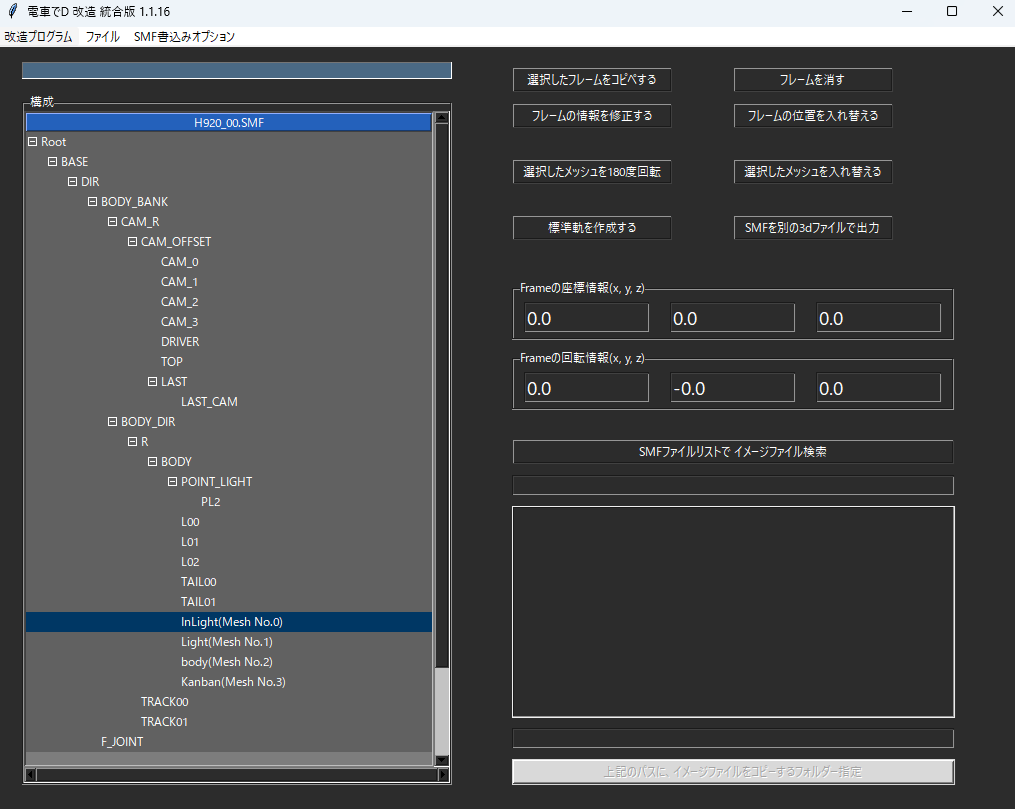
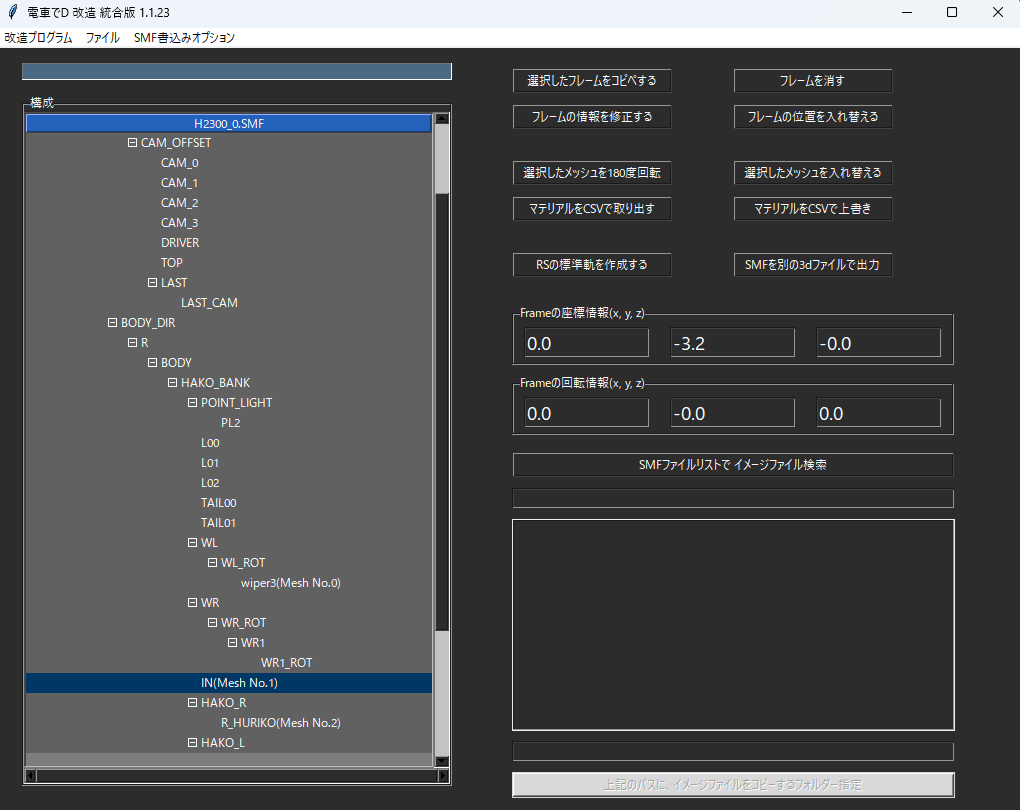
SMFファイルにマテリアルのTEXC、DIFF、EMISを修正する機能を追加

diff --git a/program/smf/smf.py b/program/smf/smf.py
@@ -34,6 +34,8 @@ extract3dObjButton = None
 turnModelMeshButton = None
 swapModelMeshButton = None
 editInfoFrameButton = None
+meshMaterialCsvSaveButton = None
+meshMaterialCsvLoadButton = None
 
 v_framePosX = None
 v_framePosY = None
@@ -119,6 +121,8 @@ def createWidget():
     global turnModelMeshButton
     global swapModelMeshButton
     global editInfoFrameButton
+    global meshMaterialCsvSaveButton
+    global meshMaterialCsvLoadButton
     global decryptFile
 
     btnList = [
@@ -129,7 +133,9 @@ def createWidget():
     ]
     meshBtnList = [
         turnModelMeshButton,
-        swapModelMeshButton
+        swapModelMeshButton,
+        meshMaterialCsvSaveButton,
+        meshMaterialCsvLoadButton
     ]
 
     frame = ScrollbarTreeviewSmf(scriptLf, btnList, meshBtnList, getFrameInfo)
@@ -151,6 +157,8 @@ def createWidget():
     extract3dObjButton["state"] = "normal"
     turnModelMeshButton["state"] = "disabled"
     swapModelMeshButton["state"] = "disabled"
+    meshMaterialCsvSaveButton["state"] = "disabled"
+    meshMaterialCsvLoadButton["state"] = "disabled"
 
 
 def reloadWidget():
@@ -377,6 +385,130 @@ def swapModelMesh():
                 reloadWidget()
 
 
+def meshMaterialCsvSave():
+    global decryptFile
+    global frame
+
+    saveName = os.path.splitext(os.path.basename(decryptFile.filename))[0]
+    selectId = frame.tree.selection()[0]
+    selectName = frame.tree.item(selectId)["text"]
+    meshNo = int(re.findall("Mesh No.(\d+)", selectName)[0])
+    saveName += "_mesh{0}".format(meshNo)
+    file_path = fd.asksaveasfilename(
+        initialfile=saveName,
+        filetypes=[
+            (textSetting.textList["smf"]["csvFile"], "*.csv")
+        ],
+        defaultextension=".csv")
+
+    if file_path:
+        errorMsg = textSetting.textList["errorList"]["E19"]
+        try:
+            mtrlList = decryptFile.meshList[meshNo]["mtrlList"]
+            f = open(file_path, "w", encoding="utf-8-sig")
+            f.write("mtrlNo,texc,diff_r,diff_g,diff_b,diff_a,emis_r,emis_g,emis_b\n")
+            for mIdx, mtrlInfo in enumerate(mtrlList):
+                rowList = []
+                rowList.append(mIdx)
+                if "texc" in mtrlInfo:
+                    rowList.append(mtrlInfo["texc"])
+                else:
+                    rowList.append("")
+                rowList.extend(mtrlInfo["diff"])
+                rowList.extend(mtrlInfo["emis"])
+                f.write(",".join(map(str, rowList)))
+                f.write("\n")
+            f.close()
+            mb.showinfo(title=textSetting.textList["success"], message=textSetting.textList["infoList"]["I10"])
+        except Exception:
+            errObj.write(traceback.format_exc())
+            mb.showerror(title=textSetting.textList["error"], message=errorMsg)
+
+
+def meshMaterialCsvLoad():
+    global root
+    global decryptFile
+    global frame
+
+    selectId = frame.tree.selection()[0]
+    selectName = frame.tree.item(selectId)["text"]
+    meshNo = int(re.findall("Mesh No.(\d+)", selectName)[0])
+    file_path = fd.askopenfilename(
+        filetypes=[
+            (textSetting.textList["smf"]["csvFile"], "*.csv")
+        ],
+        defaultextension=".csv"
+    )
+    if file_path:
+        errorMsg = textSetting.textList["errorList"]["E14"]
+        noTexcInputFlag = False
+        try:
+            f = open(file_path, "r", encoding="utf-8-sig")
+            lines = f.readlines()
+            f.close()
+
+            lines.pop(0)
+            originMtrlList = decryptFile.meshList[meshNo]["mtrlList"]
+            if len(originMtrlList) != len(lines):
+                errorMsg2 = textSetting.textList["errorList"]["E125"].format(len(lines), len(originMtrlList))
+                mb.showerror(title=textSetting.textList["error"], message=errorMsg2)
+                return
+
+            mtrlList = []
+            for idx, line in enumerate(lines):
+                originMtrlInfo = originMtrlList[idx]
+                mtrlInfo = {}
+                arr = line.strip().split(",")
+                if arr[1] != "":
+                    mtrlInfo["texc"] = arr[1]
+                    bTexc = decryptFile.encObj.convertByteArray(mtrlInfo["texc"])
+                    if len(bTexc) > 64:
+                        errorMsg = textSetting.textList["errorList"]["E127"].format(idx)
+                        mb.showerror(title=textSetting.textList["error"], message=errorMsg)
+                        return
+                if "texc" in originMtrlInfo and "texc" not in mtrlInfo:
+                    errorMsg = textSetting.textList["errorList"]["E126"].format(idx)
+                    mb.showerror(title=textSetting.textList["error"], message=errorMsg)
+                    return
+                if "texc" not in originMtrlInfo and "texc" in mtrlInfo:
+                    noTexcInputFlag = True
+
+                diff = [0.0, 0.0, 0.0, 0.0]
+                if arr[2] != "":
+                    diff[0] = float(arr[2])
+                if arr[3] != "":
+                    diff[1] = float(arr[3])
+                if arr[4] != "":
+                    diff[2] = float(arr[4])
+                if arr[5] != "":
+                    diff[3] = float(arr[5])
+                mtrlInfo["diff"] = diff
+
+                emis = [0.0, 0.0, 0.0]
+                if arr[6] != "":
+                    emis[0] = float(arr[6])
+                if arr[7] != "":
+                    emis[1] = float(arr[7])
+                if arr[8] != "":
+                    emis[2] = float(arr[8])
+                mtrlInfo["emis"] = emis
+                mtrlList.append(mtrlInfo)
+
+            warnMsg = textSetting.textList["infoList"]["I136"]
+            if noTexcInputFlag:
+                warnMsg = textSetting.textList["infoList"]["I138"] + warnMsg
+            result = mb.askokcancel(title=textSetting.textList["confirm"], message=warnMsg, icon="warning", parent=root)
+            if result:
+                if not decryptFile.modifyMaterial(meshNo, mtrlList):
+                    decryptFile.printError()
+                    mb.showerror(title=textSetting.textList["saveError"], message=errorMsg)
+                    return
+                mb.showinfo(title=textSetting.textList["success"], message=textSetting.textList["infoList"]["I137"])
+                reloadWidget()
+        except Exception:
+            errObj.write(traceback.format_exc())
+            mb.showerror(title=textSetting.textList["error"], message=errorMsg)
+
 def getFrameInfo():
     global v_framePosX
     global v_framePosY
@@ -488,6 +620,8 @@ def call_smf(rootTk, config_ini_path, appearance):
     global turnModelMeshButton
     global swapModelMeshButton
     global editInfoFrameButton
+    global meshMaterialCsvSaveButton
+    global meshMaterialCsvLoadButton
 
     global v_framePosX
     global v_framePosY
@@ -546,6 +680,10 @@ def call_smf(rootTk, config_ini_path, appearance):
     turnModelMeshButton.grid(row=0, column=0, padx=30, pady=5)
     swapModelMeshButton = ttkCustomWidget.CustomTtkButton(meshEditButtonFrame, text=textSetting.textList["smf"]["swapModelMeshLabel"], width=25, command=swapModelMesh, state="disabled")
     swapModelMeshButton.grid(row=0, column=1, padx=30, pady=5)
+    meshMaterialCsvSaveButton = ttkCustomWidget.CustomTtkButton(meshEditButtonFrame, text=textSetting.textList["smf"]["meshMaterialCsvSaveLabel"], width=25, command=meshMaterialCsvSave, state="disabled")
+    meshMaterialCsvSaveButton.grid(row=1, column=0, padx=30, pady=5)
+    meshMaterialCsvLoadButton = ttkCustomWidget.CustomTtkButton(meshEditButtonFrame, text=textSetting.textList["smf"]["meshMaterialCsvLoadLabel"], width=25, command=meshMaterialCsvLoad, state="disabled")
+    meshMaterialCsvLoadButton.grid(row=1, column=1, padx=30, pady=5)
 
     elseEditButtonFrame = ttkCustomWidget.CustomTtkFrame(buttonListFrame)
     elseEditButtonFrame.grid(row=2, column=0, pady=10)

diff --git a/program/smf/importPy/decrypt.py b/program/smf/importPy/decrypt.py
@@ -2476,3 +2476,70 @@ class SmfDecrypt:
         w.write(newByteArr)
         w.close()
         return True
+
+    def modifyMaterial(self, meshNo, mtrlList):
+        self.index = self.meshStartIdx
+        meshStartIdx = -1
+        meshEndIdx = -1
+        for mesh in range(self.meshCount):
+            if mesh == meshNo:
+                meshStartIdx = self.index
+            nameAndLength = self.getStructNameAndLength()
+            if not self.readMESH(mesh, nameAndLength[1], int(50 / self.meshCount)):
+                return False
+            if mesh == meshNo:
+                meshEndIdx = self.index
+                break
+        if meshStartIdx == -1 or meshEndIdx == -1:
+            return False
+        searchIdx = self.byteArr.find(self.encObj.convertByteArray("LRTM"), meshStartIdx)
+        if searchIdx == -1:
+            return False
+        newByteArr = bytearray(self.byteArr)
+        index = searchIdx
+        for mtrl in mtrlList:
+            index += 4
+            mtrlLen = struct.unpack("<i", self.byteArr[index:index + 4])[0]
+            index += 4
+            mtrlStartIndex = index
+            # TEXC
+            searchIdx = self.byteArr.find(self.encObj.convertByteArray("CXET"), index)
+            if searchIdx != -1 and "texc" in mtrl:
+                index = searchIdx
+                index += 4
+                index += 4
+                bTexc = self.encObj.convertByteArray(mtrl["texc"])
+                for addr, val in enumerate(bTexc):
+                    newByteArr[index + addr] = val
+                index += len(bTexc)
+                for i in range(64 - len(bTexc)):
+                    newByteArr[index + i] = 0
+                index += (64 - len(bTexc))
+            # DIFF
+            searchIdx = self.byteArr.find(self.encObj.convertByteArray("FFID"), index)
+            if searchIdx != -1 and "diff" in mtrl:
+                index = searchIdx
+                index += 4
+                index += 4
+                for diff in mtrl["diff"]:
+                    bDiff = struct.pack("<f", diff)
+                    for addr, val in enumerate(bDiff):
+                        newByteArr[index + addr] = val
+                    index += 4
+            # EMIS
+            searchIdx = self.byteArr.find(self.encObj.convertByteArray("SIME"), index)
+            if searchIdx != -1 and "emis" in mtrl:
+                index = searchIdx
+                index += 4
+                index += 4
+                for emis in mtrl["emis"]:
+                    bEmis = struct.pack("<f", emis)
+                    for addr, val in enumerate(bEmis):
+                        newByteArr[index + addr] = val
+                    index += 4
+            index = mtrlStartIndex + mtrlLen
+
+        w = open(self.filePath, "wb")
+        w.write(newByteArr)
+        w.close()
+        return True

diff --git a/program/textSetting.py b/program/textSetting.py
@@ -811,6 +811,7 @@ textList = {
         "glbFile": "glbファイル",
         "fbxFile": "fbxファイル",
         "xFile": "xファイル",
+        "csvFile": "csvファイル",
         "swapFrame": "フレーム入れ替え",
         "editInfoFrame": "フレーム情報修正",
         "swapMesh": "メッシュ入れ替え",
@@ -823,6 +824,8 @@ textList = {
         "extract3dLabel": "SMFを別の3dファイルで出力",
         "turnModelMeshLabel": "選択したメッシュを180度回転",
         "swapModelMeshLabel": "選択したメッシュを入れ替える",
+        "meshMaterialCsvSaveLabel": "マテリアルをCSVで取り出す",
+        "meshMaterialCsvLoadLabel": "マテリアルをCSVで上書き",
         "scanSmfImageLabel": "SMFファイルリストで イメージファイル検索",
         "copyImageLabel": "上記のパスに、イメージファイルをコピーするフォルダー指定",
         "framePosInfoLabel": "Frameの座標情報(x, y, z)",
@@ -998,7 +1001,10 @@ textList = {
         "I132": "指定したメッシュ番号({0})は、存在しています\n不具合が発生する恐れがありますが\n",
         "I133": "フレームに指定したメッシュ番号({0})を消すと\nメッシュ情報も削除されます\n",
         "I134": "空のメッシュ番号({0})を作成します。\n",
-        "I135": "このまま修正すると、メッシュ番号({0})を参照できない\n不具合が発生する恐れがありますが\n"
+        "I135": "このまま修正すると、メッシュ番号({0})を参照できない\n不具合が発生する恐れがありますが\n",
+        "I136": "マテリアルを上書きしますか？",
+        "I137": "マテリアルを上書きしました",
+        "I138": "TEXC要素がないテクスチャーは無視されます。\n"
     },
     "modify": "修正",
     "insert": "挿入",
@@ -1136,7 +1142,10 @@ textList = {
         "E121": "レールのNo.{0}で【{1}】は、レールとして使えないモデルです",
         "E122": "レールのNo.{0}で【{1}】は{2}ですが、{3}で指定しています",
         "E123": "選択したメッシュの面は三角面ではありません",
-        "E124": "ファイル読込エラー\nshift-jis形式ではない可能性があります"
+        "E124": "ファイル読込エラー\nshift-jis形式ではない可能性があります",
+        "E125": "読み込んだマテリアル数({0})が元の数({1})と一致しません",
+        "E126": "マテリアルNo.{0}のテクスチャ名がありません",
+        "E127": "マテリアルNo.{0}のテクスチャ名が長すぎです"
     },
     "excel": {
         "errorColor": "FF0000",

diff --git a/program/smf/README.md b/program/smf/README.md
@@ -53,6 +53,18 @@ SMFファイルを読込ませると、SMFのメッシュの中で１つを
 
 FBXファイルを読込ませると、認識したメッシュの中で１つを入れ替えることができる。
 
+### マテリアルをCSVで取り出す
+
+メッシュのマテリアル情報をCSVで取り出すことが出来る。
+
+取り出す情報は、TEXC、DIFF、EMISのみ
+
+### マテリアルをCSVで上書き
+
+メッシュのマテリアル情報をCSVで上書きすることが出来る。
+
+上書き出来る情報は、TEXC、DIFF、EMISのみ
+
 ## その他の機能
 
 ### 標準軌を作成する
